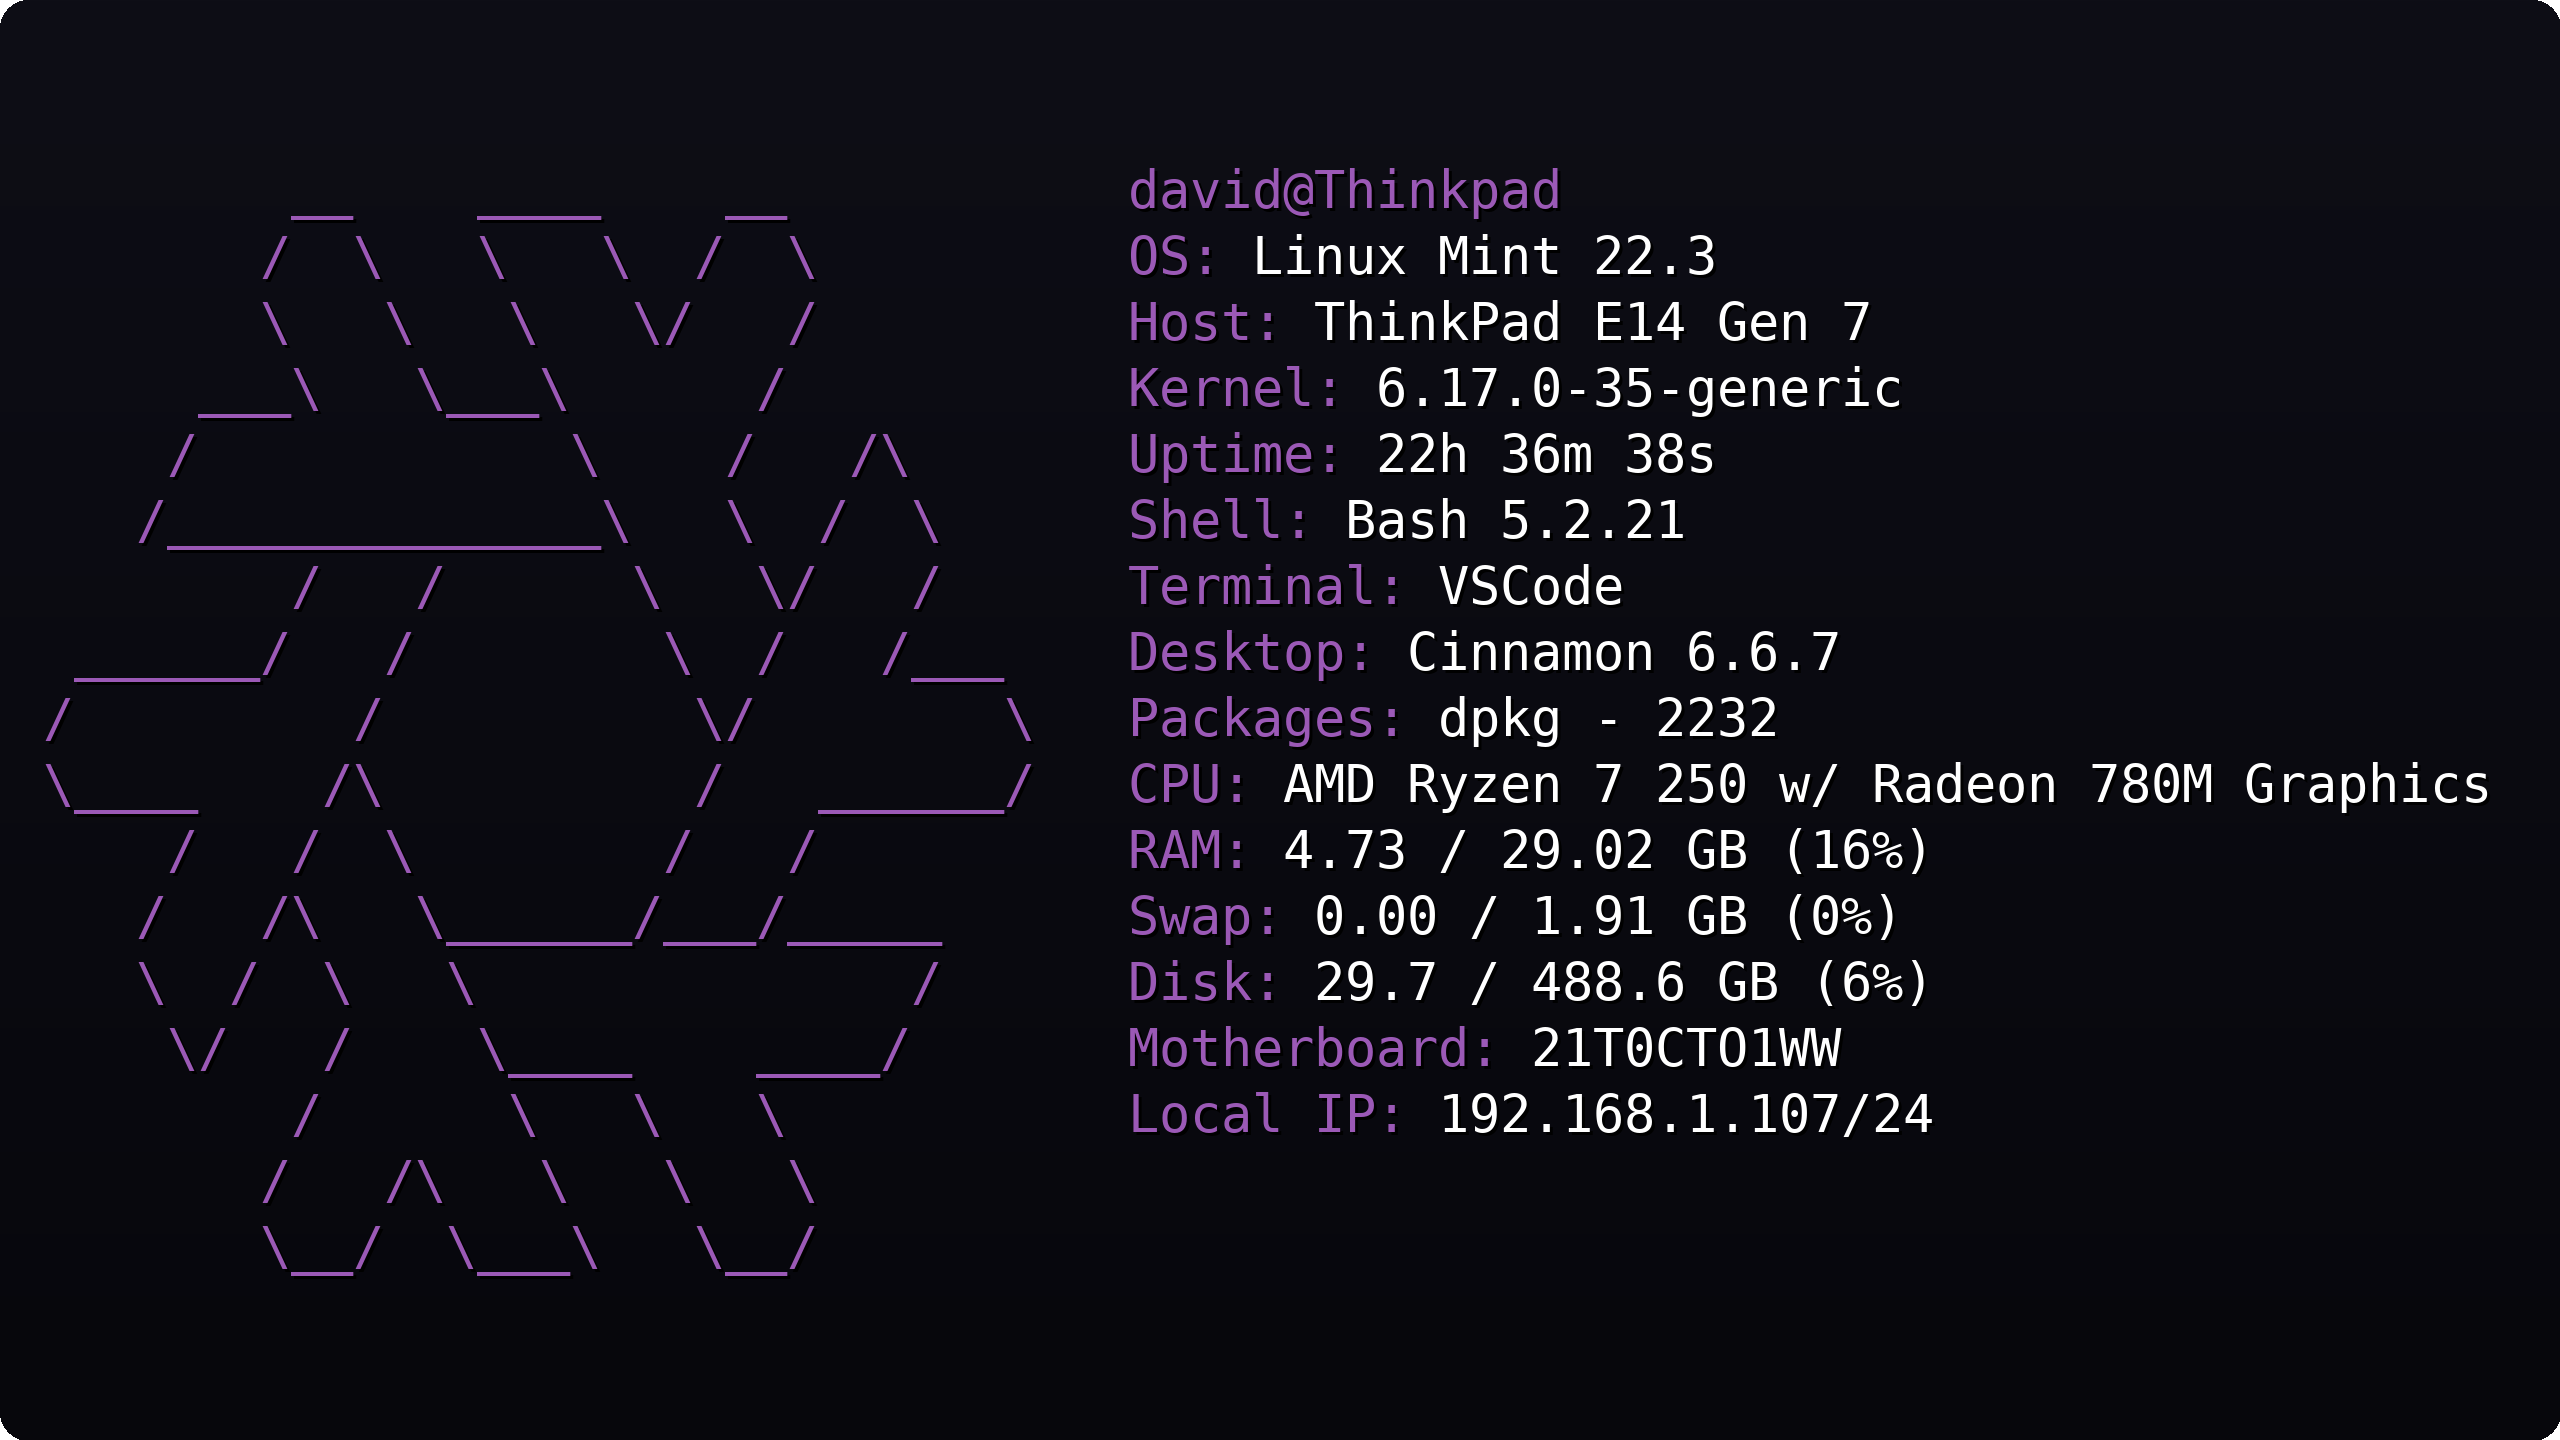
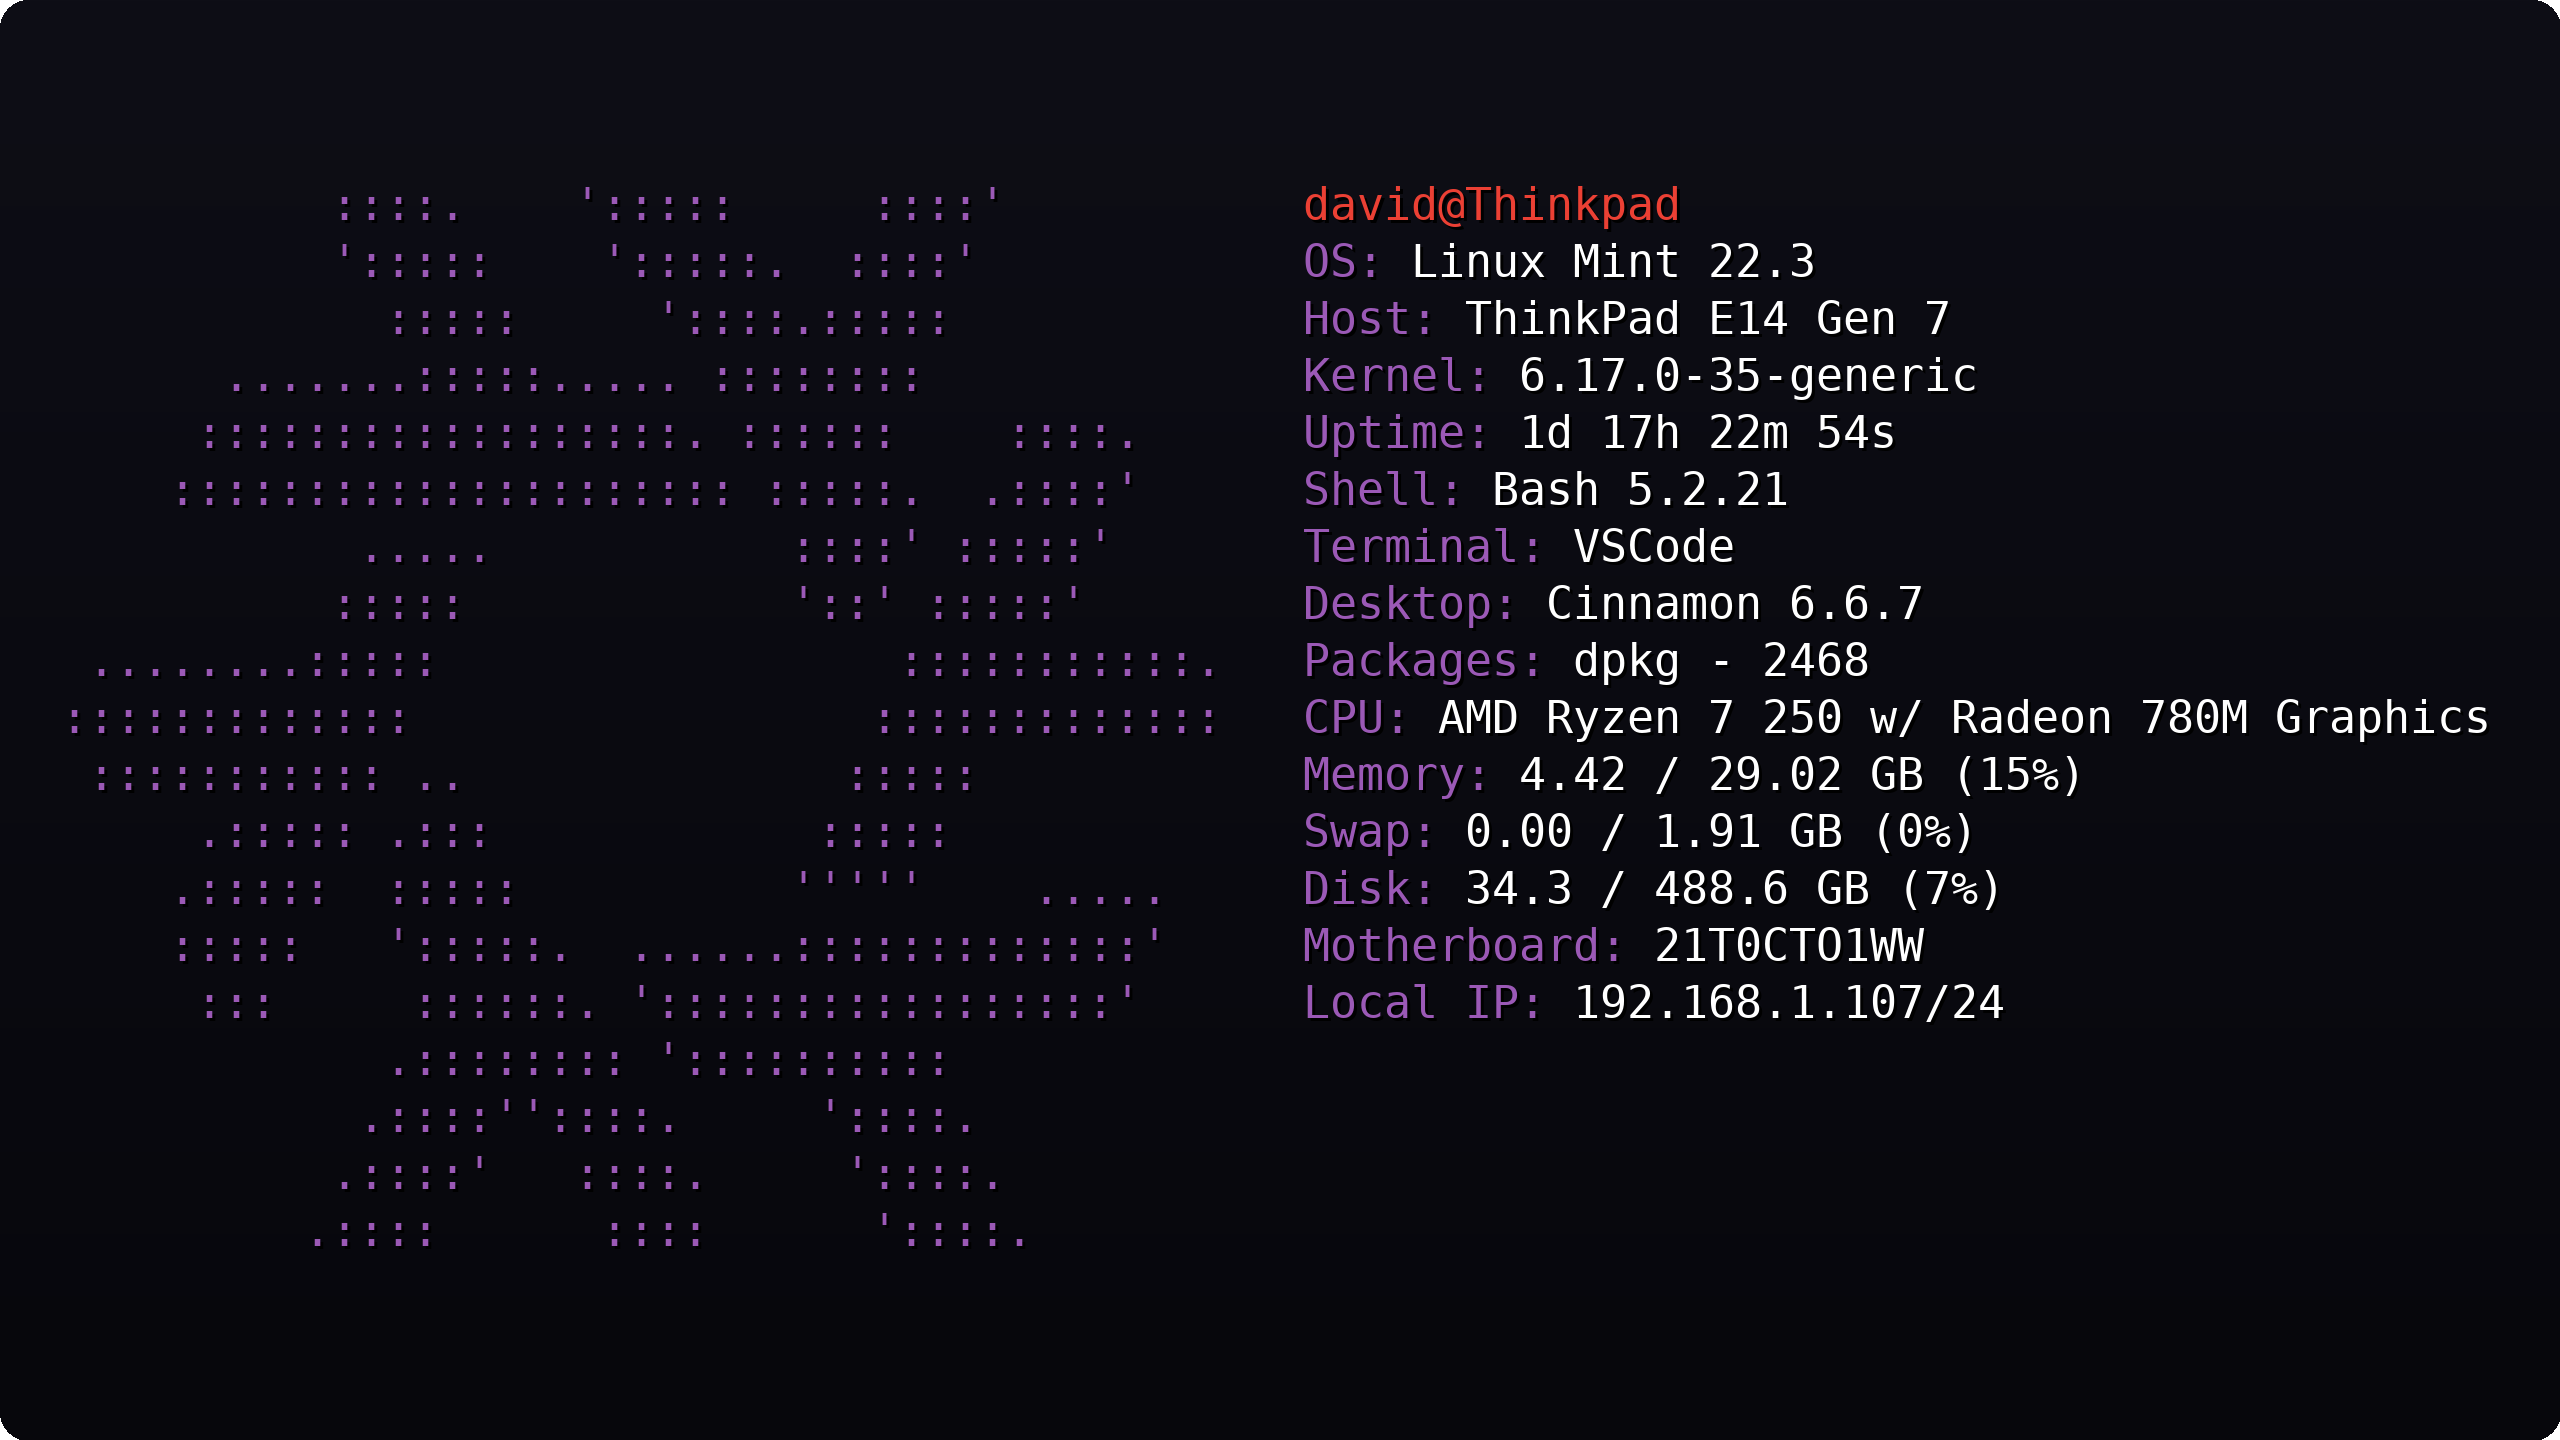
first sync

diff --git a/README.md b/README.md
@@ -66,10 +66,10 @@ modules {
 }
 
 custom_ascii: default
-// Set a custom ASCII logo by providing the path to a text file containing it.
+// Set a custom ASCII logo by providing the path to the text file containing it.
 
 label_color: default
-// Color used for the information labels.
+// Color of the information labels.
 
 userinfo_color: default
 // Color of the userinfo module.